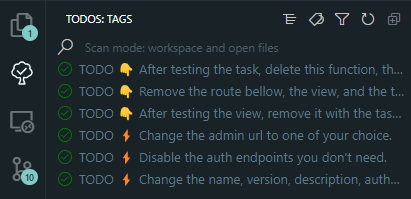
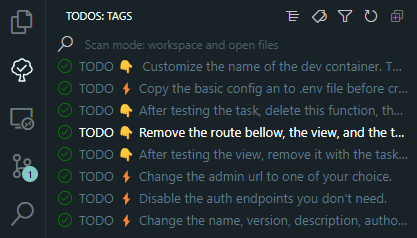
feat: Update devcontainer.json and .env.example
- Customize the name of the dev container in devcontainer.json
- Use env.example to create a .env file in README.md
- Rearrange the setup steps in README.md

diff --git a/README.md b/README.md
@@ -41,12 +41,12 @@
 1. Open the project in VS Code.
 1. If you installed the recommended extensions, open `Todo Tree` in the sidebar. It will guide you trough the first steps setting up your project, like changing the name of the container, adjusting your URLS, etc.
 ![todo](/static/TODO.png)
-1. Use `env.example` to create a `.env` file.
+1. ⚠ Use `env.example` to create a `.env` file.
 1. Hit `CTL/CMD + Shift + p` and select `Reopen in container`. This will:
     - Create a dev container.
-    - Install the dependencies.
-    - Setup your PostgreSQL database.
     - Setup a Redis server.
+    - Setup your PostgreSQL database.
+    - Install the dependencies.
     - Migrate the database.
 1. Create your super user with `python manage.py createsuperuser`.
 1. Run the project with `python manage.py reserver`.
